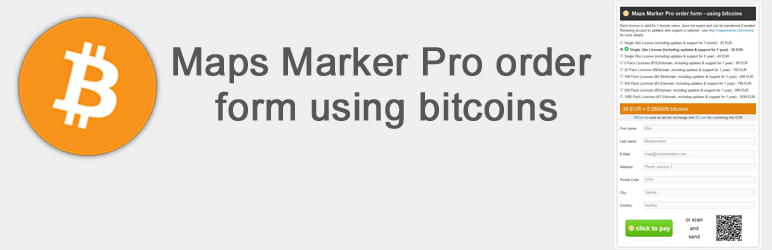
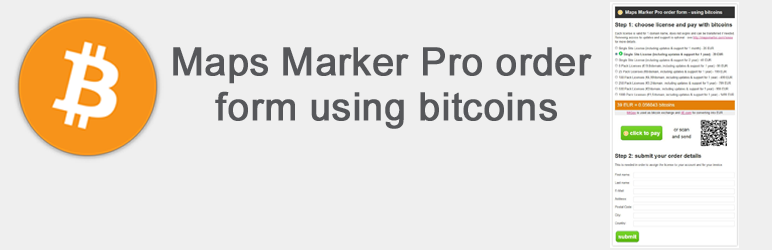
split convert + submit data to keep bitcoin transaction anonymous

diff --git a/css/bitcoin-order-form.css b/css/bitcoin-order-form.css
@@ -7,7 +7,7 @@
 	width:520px;
 	color:#333;
 	font-size:10pt;
-	margin:10px 0 10px 0;
+	margin:10px;
 }
 .bitcoin-order-form-heading {
 	font-weight:bold;
@@ -28,7 +28,7 @@
 	margin:0px 0px 10px 0px;
 }
 .bitcoin-order-form input[type=text] {
-	width:100%;
+	width:98%;
 }
 .bitcoin-order-form-result {
 	background-color: #E28008;
@@ -44,6 +44,7 @@
 }
 .bitcoin-result td {
 	vertical-align:middle;
+	padding-top:20px;
 	border:none;
 	color:#333;
 	text-align:center;

diff --git a/lib/exchange.php b/lib/exchange.php
@@ -1,56 +1,67 @@
 <?php
+//info: configurable parameters
+$label = "MapsMarker.com";
+$bitcoin_address = "15UUSJRBCEayMMUZJujdu1HgtUE8HNP8ph";
+$convert_from = "eur"; //info: US Dollar = usd, British Pound = gbp ...
+$curr_conversion_service = "xe"; //info: Google Currency Conversion = google
+$qr_code_size = "150";
+$email_recipient_for_order_details = "enter @ email . here";
+$email_subject_for_order_details = "MapsMarker.com - new bitcoin payment";
+
 $bitcoins_nonce = $_GET["nonce"];
+$action = $_GET["action"];
 if ($bitcoins_nonce == 'bitcoins') {
-	if (in_array ('curl', get_loaded_extensions())) {
-		if(isset($_GET["bitcoin_plugin_url"])) {
-			$bitcoin_plugin_url = $_GET["bitcoin_plugin_url"];
-		}
-		if(isset($_POST["price"])) {
-			$price = (float)$_POST["price"];
-		}
-		if(isset($_POST["message"])) {
-			$message = $_POST["message"];
-		}
-		if($price != 0 && $price > 0) {
-		
-			$label = "MapsMarker.com";
-			$bitcoin_address = "15UUSJRBCEayMMUZJujdu1HgtUE8HNP8ph";
-			$convert_from = "eur"; //info: US Dollar = usd, British Pound = gbp ...
-			$curr_conversion_service = "xe"; //info: Google Currency Conversion = google
-			$qr_code_size = "133";
-		
-			$url = 'http://btcrate.com/convert?from=' . $convert_from . '&to=btc&exch=mtgox&conv=' . $curr_conversion_service . '&amount='.$price;
-		
-			try {
-				$curl = curl_init($url);
-				curl_setopt($curl, CURLOPT_FAILONERROR, true);
-				curl_setopt($curl, CURLOPT_FOLLOWLOCATION, false);
-				curl_setopt($curl, CURLOPT_RETURNTRANSFER, true);
-				curl_setopt($curl, CURLOPT_SSL_VERIFYHOST, false);
-				curl_setopt($curl, CURLOPT_SSL_VERIFYPEER, false);
-				$c = curl_exec($curl);
-				curl_close($curl);
-				
-				$bitcoins = json_decode($c);
-				$bitcoins = round($bitcoins->converted, 6);
-				
-				echo  "" . $price . " EUR = " . $bitcoins . " bitcoins<br/>";
-				echo "<table style='border:none;margin-top:350px;'><tr><td style='width:185px;'>
-					<a class='bitcoins-pay-button' href='bitcoin:" . $bitcoin_address . "?amount=" . $bitcoins . "&label=" . $label . "&message=" . $message . "'><img src='" . $bitcoin_plugin_url . "img/bitcoin-25x25.png' style='float:left;margin:7px 5px 0 5px;'/>click to pay</a>
-					</td>
-					<td style='width:80px;padding-left:25px;'>or scan and send</td>
-					<td style='width:155px;padding-top:15px;'>
-						<iframe width='150' frameborder='0' scrolling='no' framespacing='0' src='https://chart.googleapis.com/chart?chs=" . $qr_code_size . "x" . $qr_code_size . "&cht=qr&chl=bitcoin:" . $bitcoin_address . "?amount=" . $bitcoins . "%26label=" . $label . "%26message=" . $message . "' />
-					</td></tr></table>
-				";		
-				
-			} catch (Exception $e) {
-				echo 'Caught exception: ',  $e->getMessage(), "\n";
+
+	if ($action == 'convert') {	
+		if (in_array ('curl', get_loaded_extensions())) {
+			if(isset($_GET["bitcoin_plugin_url"])) {
+				$bitcoin_plugin_url = $_GET["bitcoin_plugin_url"];
 			}
+			if(isset($_POST["price"])) {
+				$price = (float)$_POST["price"];
+			}
+			if($price != 0 && $price > 0) {
+			
+				$url = 'http://btcrate.com/convert?from=' . $convert_from . '&to=btc&exch=mtgox&conv=' . $curr_conversion_service . '&amount='.$price;
+			
+				try {
+					$curl = curl_init($url);
+					curl_setopt($curl, CURLOPT_FAILONERROR, true);
+					curl_setopt($curl, CURLOPT_FOLLOWLOCATION, false);
+					curl_setopt($curl, CURLOPT_RETURNTRANSFER, true);
+					curl_setopt($curl, CURLOPT_SSL_VERIFYHOST, false);
+					curl_setopt($curl, CURLOPT_SSL_VERIFYPEER, false);
+					$c = curl_exec($curl);
+					curl_close($curl);
+					
+					$bitcoins = json_decode($c);
+					$bitcoins = round($bitcoins->converted, 6);
+					
+					echo  "" . $price . " EUR = <span id='bitcoins-converted'>" . $bitcoins . "</span> bitcoins<br/>";
+					echo "<table style='border:none;margin-top:10px;'><tr><td style='width:185px;'>
+						<a class='bitcoins-pay-button' href='bitcoin:" . $bitcoin_address . "?amount=" . $bitcoins . "&label=" . $label . "'><img src='" . $bitcoin_plugin_url . "img/bitcoin-25x25.png' style='float:left;margin:7px 5px 0 5px;'/>click to pay</a>
+						</td>
+						<td style='width:80px;padding-left:25px;'>or scan and send</td>
+						<td style='width:155px;padding-top:15px;'>
+							<iframe width='150' frameborder='0' scrolling='no' framespacing='0' src='https://chart.googleapis.com/chart?chs=" . $qr_code_size . "x" . $qr_code_size . "&cht=qr&chl=bitcoin:" . $bitcoin_address . "?amount=" . $bitcoins . "%26label=" . $label . "' />
+						</td></tr></table>
+					";		
+					
+				} catch (Exception $e) {
+					echo 'Caught exception: ',  $e->getMessage(), "\n";
+				}
+			} else {
+				echo "Invalid Input";
+			}
+		} 
+	} else if ($action == 'submit') {
+		$order_details = $_POST["order_details"];
+		if(mail($email_recipient_for_order_details, $email_subject_for_order_details, $order_details)) {
+			echo '<h2>Your data has been submitted successfully!</h2><p>We try to fulfill your order as soon as possible, anyway it might take up to 24 hours to complete all necessary steps. So we kindly ask you for your patience!';
 		} else {
-			echo "Invalid Input";
-		}
-	} 
+			echo "Error! Your data could not be submitted! Please send your data manually to " . $email_recipient_for_order_details;
+		}  
+	}
 } else {
 	echo 'Please do not call this file directly!';
 }

diff --git a/lib/order-form.php b/lib/order-form.php
@@ -12,6 +12,8 @@ function bitcoin_calculator_widget() {
 		<div class="bitcoin-order-form-heading">
 			<img class="bitcoin-order-form-logo" src="<?php echo BITCOIN_PLUGIN_URL . "img/bitcoin-25x25.png"; ?>"/>Maps Marker Pro order form - using bitcoins
 		</div>
+		
+		<h2>Step 1: choose license and pay with bitcoins</h2>
 
 		<p style="margin-bottom:10px;line-height:135%;">
 		Each license is valid for 1 domain name, does not expire and can be transferred if needed. Renewing access to updates and support is optional - see <a href="http://mapsmarker.com/renew">http://mapsmarker.com/renew</a> for more details.
@@ -35,7 +37,13 @@ function bitcoin_calculator_widget() {
 			<a href="https://mtgox.com/" target="_blank">MtGox</a> is used as bitcoin exchange and <a href="http://xe.com/ucc" target="_blank">XE.com</a> for converting into EUR</a>
 		</div>
 
-		<table style="border:0;margin-bottom:120px;">
+		<h2 style="margin-top:160px;">Step 2: submit your order details</h2>
+		
+		<p style="line-height:135%;">
+		This is needed in order to assign the license to your account and for your invoice.
+		</p>
+
+		<table style="border:0;margin-bottom:10px;">
 		<tr><td style="width:80px;">First name:</td><td><input type="text" name="firstname" value=""/></td></tr>
 		<tr><td>Last name:</td><td><input type="text" name="lastname" value=""/></td></tr>
 		<tr><td>E-Mail:</td><td><input type="text" name="email" value=""/></td></tr>
@@ -44,6 +52,9 @@ function bitcoin_calculator_widget() {
 		<tr><td>City:</td><td><input type="text" name="city" value=""/></td></tr>
 		<tr><td>Country:</td><td><input type="text" name="country" value=""/></td></tr>
 		</table>
+		
+		<span id="submit-button" class="bitcoins-pay-button" href="#" style="padding:5px 10px;cursor:pointer;margin-bottom:5px;">submit</span>
+		<div id="submit-log"></div>
 	
 	</div>
 	
@@ -56,32 +67,19 @@ function bitcoin_calculator_widget() {
 			j( "input[name='euro-to-convert']" ).on( "click", function() {
 				convert();
 			});
-			//info: convert if text fields are focused out
-			j( "input[type='text']" ).on( "focusout", function() {
-				convert();
-			});
-			//info: convert country on each change to update bitcoin link before payment
-			j( "input[name='country']" ).on( "keyup", function() {
-				convert();
+			//info: send email on click on submit-button
+			j( "#submit-button" ).on( "click", function() {
+				submit();
 			});
 		});
 		
 		function convert ()
 		{
-			var url = '<?php echo BITCOIN_PLUGIN_URL ?>' + 'lib/exchange.php?bitcoin_plugin_url=' + '<?php echo BITCOIN_PLUGIN_URL ?>' + '&nonce=bitcoins';
+			var url = '<?php echo BITCOIN_PLUGIN_URL ?>' + 'lib/exchange.php?bitcoin_plugin_url=' + '<?php echo BITCOIN_PLUGIN_URL ?>' + '&nonce=bitcoins&action=convert';
 							
 			var price = j( "input:checked" ).val();
-			var m1 = j( "input[name='firstname']" ).val();
-			var m2 = j( "input[name='lastname']" ).val();
-			var m3 = j( "input[name='email']" ).val();
-			var m4 = j( "input[name='address']" ).val();
-			var m5 = j( "input[name='postalcode']" ).val();
-			var m6 = j( "input[name='city']" ).val();
-			var m7 = j( "input[name='country']" ).val();
+			var data = "price="+price;
 
-			var message = price + "EUR from " + m1 + ", " + m2 + ", " + m3 + ", " + m4 + ", " + m5 + ", " + m6 + ", " + m7;
-			var data = "price="+price +"&message="+message;
-			
 			j.ajax({
 			type: 'POST',
 			url: url, 
@@ -90,5 +88,31 @@ function bitcoin_calculator_widget() {
 				j('.bitcoin-result').html(d);
 			});
 		}
+		function submit ()
+		{
+			var url = '<?php echo BITCOIN_PLUGIN_URL ?>' + 'lib/exchange.php?bitcoin_plugin_url=' + '<?php echo BITCOIN_PLUGIN_URL ?>' + '&nonce=bitcoins&action=submit';
+			
+			var price = j( "input:checked" ).val();
+			var bitcoins_converted = j( "#bitcoins-converted" ).val();				
+			var o1 = j( "input[name='firstname']" ).val();
+			var o2 = j( "input[name='lastname']" ).val();
+			var o3 = j( "input[name='email']" ).val();
+			var o4 = j( "input[name='address']" ).val();
+			var o5 = j( "input[name='postalcode']" ).val();
+			var o6 = j( "input[name='city']" ).val();
+			var o7 = j( "input[name='country']" ).val();
+
+			var order_details = price + " EUR / " + bitcoins_converted + " bitcoins from " + o1 + ", " + o2 + ", " + o3 + ", " + o4 + ", " + o5 + ", " + o6 + ", " + o7;
+			var data = "order_details="+order_details;
+			
+			j.ajax({
+			type: 'POST',
+			url: url, 
+			data: data, 
+			}).success(function(d) {
+				j('#submit-button').css('display', 'none');
+				j('#submit-log').html(d);
+			});
+		}		
 	</script>
 <?php } ?>
